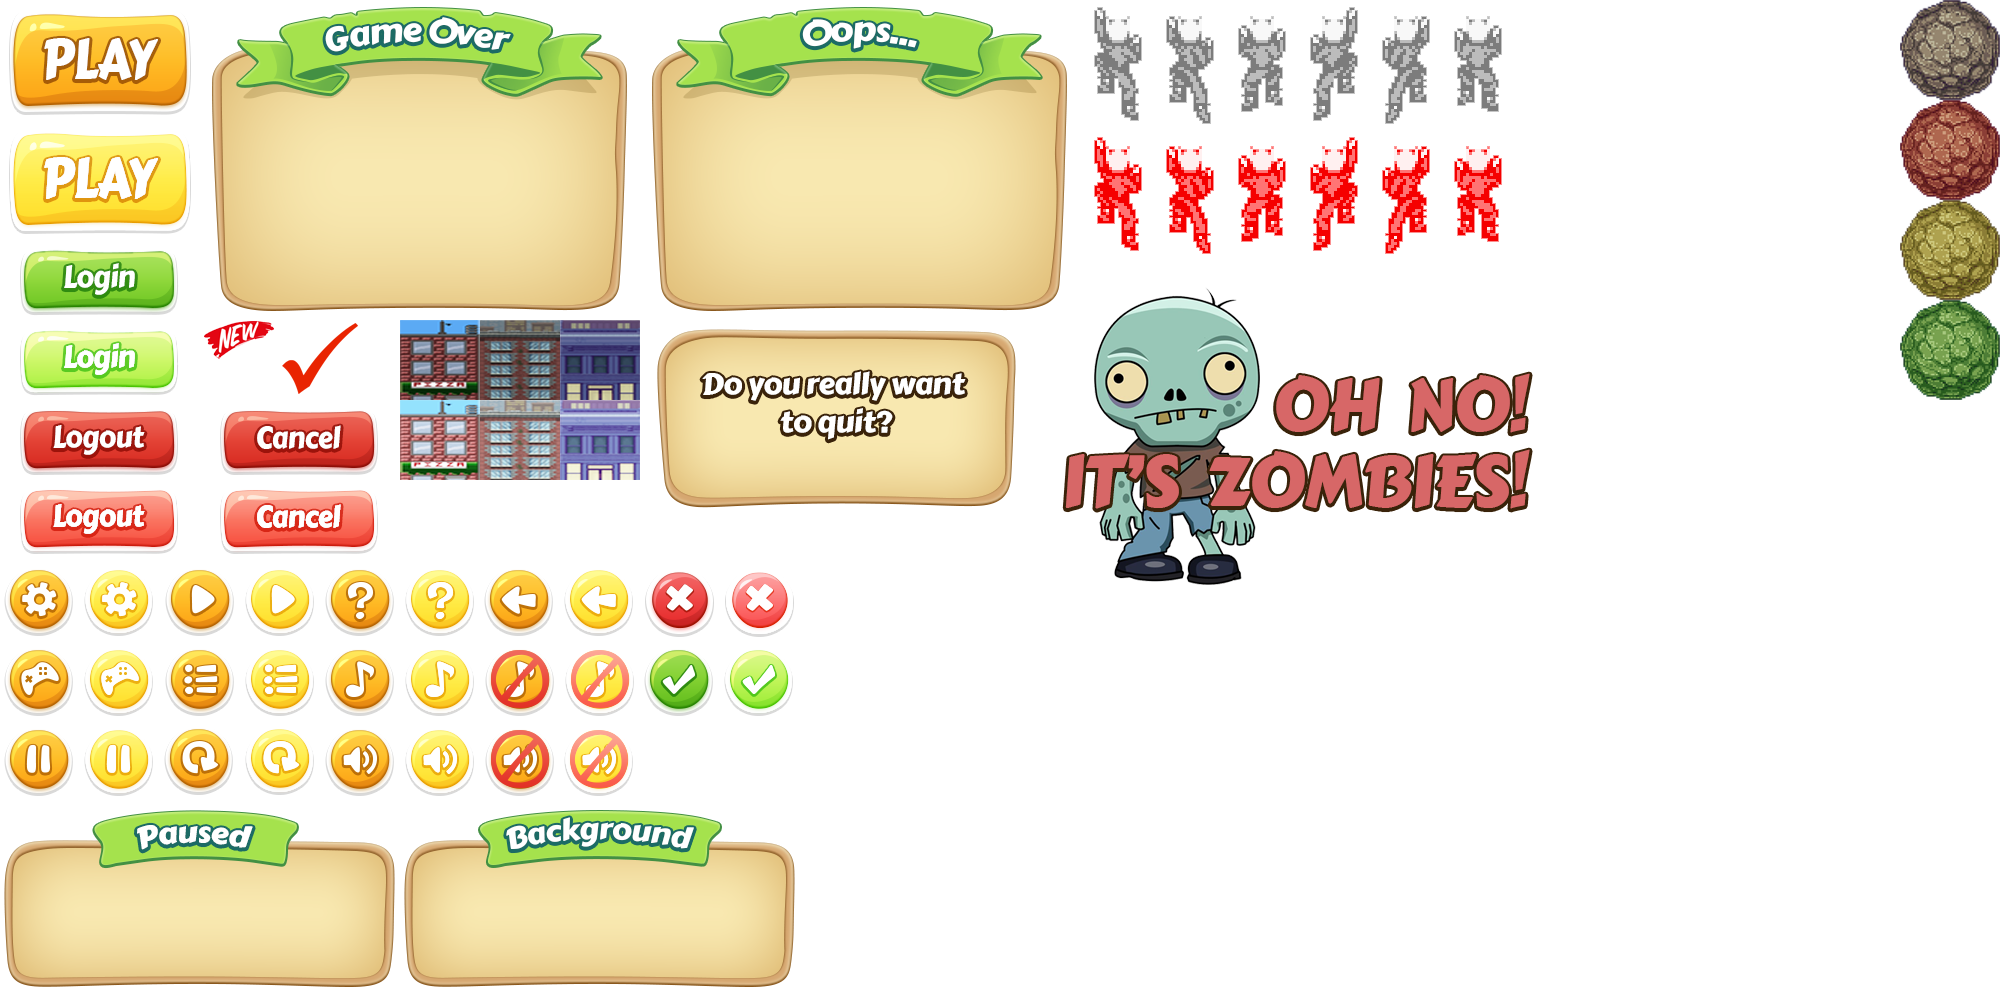
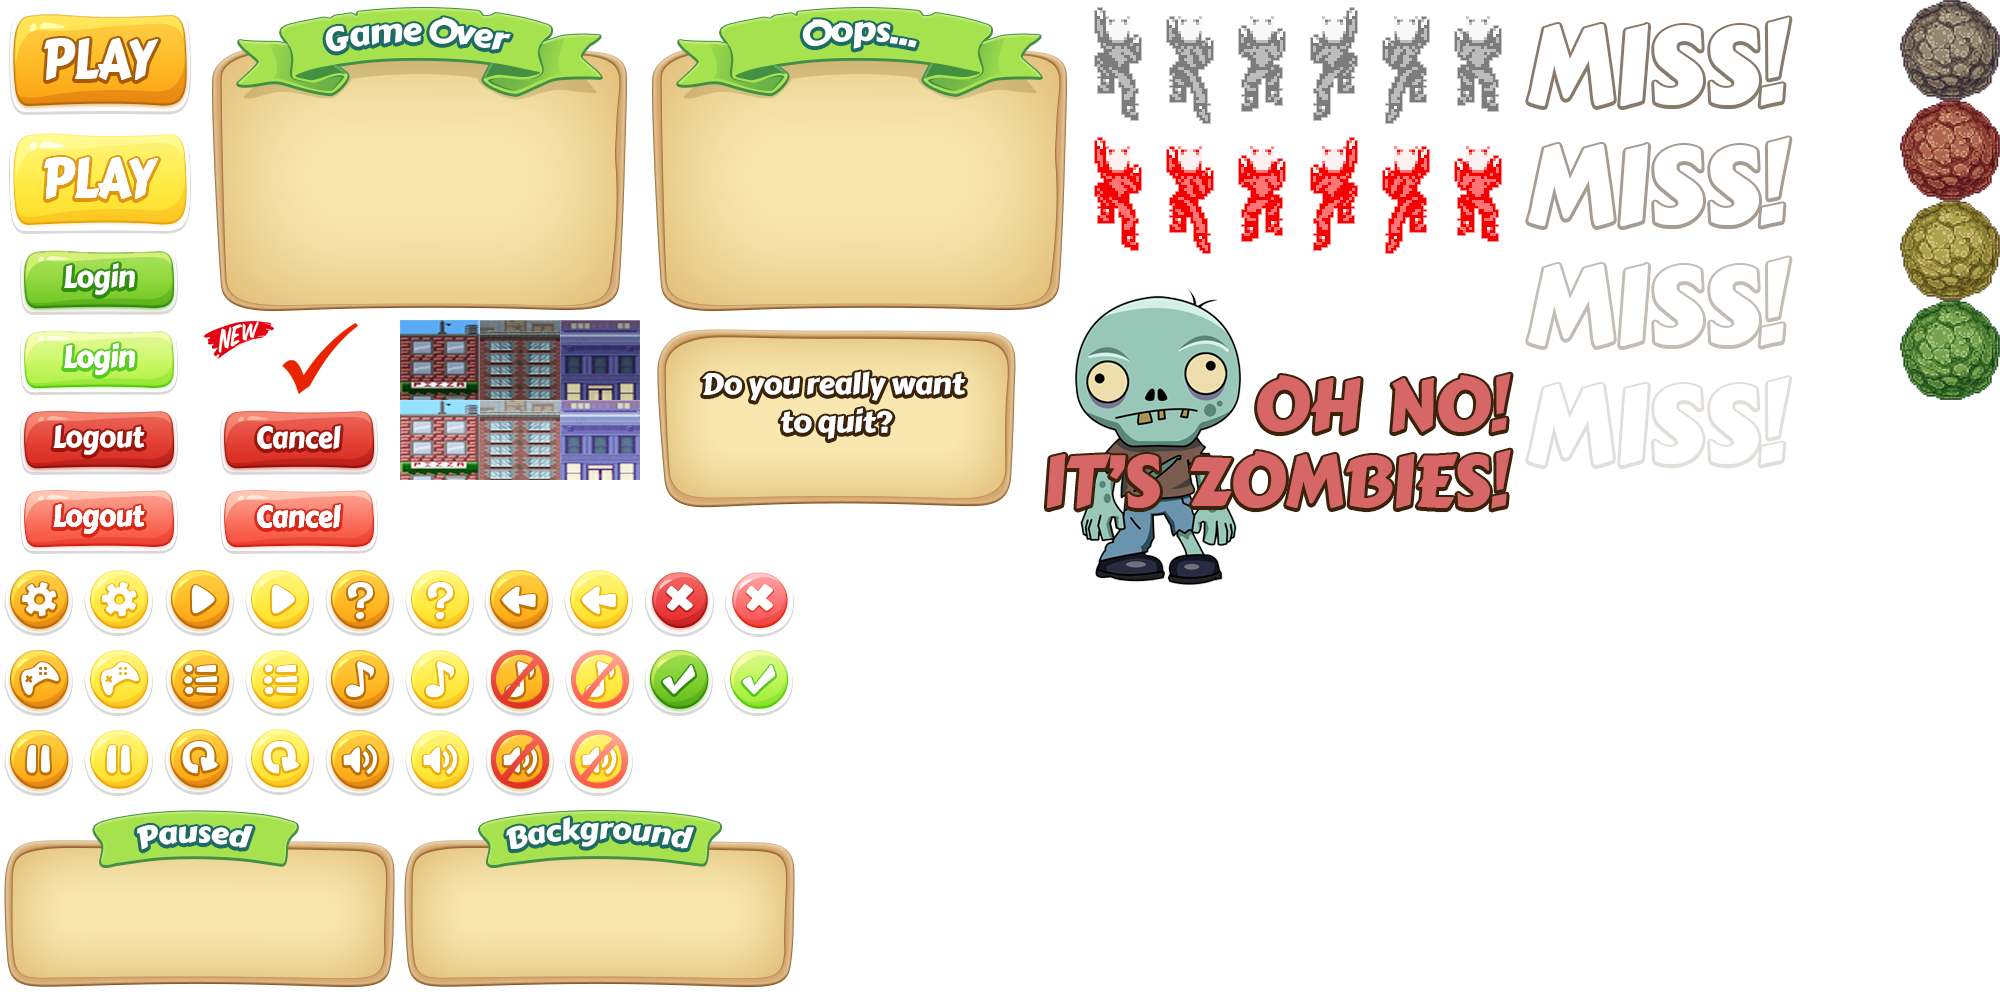
Feedback for gestures

Changed region(s): [[0.496, 0.279, 0.899, 0.589], [0.775, 0.0, 0.899, 0.372]]

diff --git a/core/src/com/oniz/Game/AssetLoader.java b/core/src/com/oniz/Game/AssetLoader.java
@@ -14,6 +14,8 @@ import com.oniz.Mobs.GestureRock;
 
 import java.util.Hashtable;
 
+import javax.xml.soap.Text;
+
 /**
  * Singleton holding all assets.
  */
@@ -32,7 +34,7 @@ public final class AssetLoader {
     public Hashtable<GestureRock.GestureType, TextureRegion> gestureHints;
     public Hashtable<GestureRock.Stage, TextureRegion> gestureStages;
     public TextureRegion[] backgrounds;
-    public Animation zombieClimbingAnimation, enemyZombieClimbingAnimation, explosionAnimation, spinnerAnimation;
+    public Animation zombieClimbingAnimation, enemyZombieClimbingAnimation, explosionAnimation, spinnerAnimation, missAnimation;
     private static Preferences prefs;
     public Skin skin;
 
@@ -223,7 +225,7 @@ public final class AssetLoader {
         sprites.put("gameOverMenu", new TextureRegion(textures.get("menuTexture"), 200, 0, 440, 320));
         sprites.put("oopsMenu", new TextureRegion(textures.get("menuTexture"), 640, 0, 440, 320));
         sprites.put("quitMenu", new TextureRegion(textures.get("menuTexture"), 640, 320, 400, 200));
-        sprites.put("gameTitle", new TextureRegion(textures.get("menuTexture"), 1040, 280, 520, 320));
+        sprites.put("gameTitle", new TextureRegion(textures.get("menuTexture"), 1040, 280, 480, 320));
 
         // gesture stages
         sprites.put("brownRock", new TextureRegion(textures.get("menuTexture"), 1900, 0, 100, 100));
@@ -259,6 +261,17 @@ public final class AssetLoader {
         gestureHints.put(GestureRock.GestureType.M_SHAPE, sprites.get("Mshape"));
         gestureHints.put(GestureRock.GestureType.REV_C_SHAPE, sprites.get("invertedCshape"));
         gestureHints.put(GestureRock.GestureType.TRIANGLE, sprites.get("triangle"));
+
+        // sprites of 'MISS'
+        sprites.put("miss1", new TextureRegion(textures.get("menuTexture"), 1520, 0, 280, 120));
+        sprites.put("miss2", new TextureRegion(textures.get("menuTexture"), 1520, 120, 280, 120));
+        sprites.put("miss3", new TextureRegion(textures.get("menuTexture"), 1520, 240, 280, 120));
+        sprites.put("miss4", new TextureRegion(textures.get("menuTexture"), 1520, 360, 280, 120));
+
+        // 'MISS' animation
+        TextureRegion[] miss = {sprites.get("miss2"), sprites.get("miss1"), sprites.get("miss2"), sprites.get("miss3"), sprites.get("miss4")};
+        missAnimation = new Animation(0.1f, miss);
+        missAnimation.setPlayMode(Animation.PlayMode.NORMAL);
 
         // sprites of zombie climbing
         sprites.put("zombieClimb1", new TextureRegion(textures.get("menuTexture"), 1087, 0, 60, 130));

diff --git a/core/src/com/oniz/Game/GameRenderer.java b/core/src/com/oniz/Game/GameRenderer.java
@@ -41,7 +41,7 @@ public class GameRenderer {
 
     // Game Assets
     private TextureRegion background, backgroundTint;
-    private Animation zombieClimbingAnimation, enemyZombieClimbingAnimation, explosionAnimation;
+    private Animation zombieClimbingAnimation, enemyZombieClimbingAnimation, explosionAnimation, missAnimation;
     private TextureRegion zombie;
 
     private TextureRegion pauseMenu, gameOverMenu, oopsMenu, quitMenu;
@@ -57,6 +57,7 @@ public class GameRenderer {
 
     // temporary
     private volatile float freezeFrameTime = 0;
+    private float missAnimationRunTime = 0;
 
     /*
     GESTURE-ONLY RELATED ASSETS
@@ -132,6 +133,7 @@ public class GameRenderer {
         zombieClimbingAnimation = AssetLoader.getInstance().zombieClimbingAnimation;
         enemyZombieClimbingAnimation = AssetLoader.getInstance().enemyZombieClimbingAnimation;
         explosionAnimation = AssetLoader.getInstance().explosionAnimation;
+        missAnimation = AssetLoader.getInstance().missAnimation;
         zombie = AssetLoader.getInstance().sprites.get("zombieClimb3");
         pauseMenu = AssetLoader.getInstance().sprites.get("pauseMenu");
         gameOverMenu = AssetLoader.getInstance().sprites.get("gameOverMenu");
@@ -168,6 +170,17 @@ public class GameRenderer {
         batcher.draw(quitMenu, 25, 340, 400, 200);
         menuButtons.get("tickButton").draw(batcher);
         menuButtons.get("xButton").draw(batcher);
+    }
+
+    private void drawMissAnimation(float deltaTime) {
+        if (gameWorld.isMissed.get()) {
+            missAnimationRunTime += deltaTime;
+            batcher.draw(missAnimation.getKeyFrame(missAnimationRunTime), 15, 300, 420, 180);
+            if (missAnimation.isAnimationFinished(missAnimationRunTime)) {
+                gameWorld.isMissed.set(false);
+                missAnimationRunTime = 0;
+            }
+        }
     }
 
     /**
@@ -212,10 +225,13 @@ public class GameRenderer {
 
         batcher.enableBlending();
 
+        // miss animation
+        drawMissAnimation(deltaTime);
+
         // Convert integer into String
         String score = Integer.toString(gameWorld.getScore());
         // Draw score
-        scoreFont.draw(batcher, score, (450 / 2) - (18 * score.length()), 750);
+        scoreFont.draw(batcher, score, (450 / 2) - (18 * score.length()), 780);
 
 
         // when game is ready, draw the play button

diff --git a/core/src/com/oniz/Game/GameWorld.java b/core/src/com/oniz/Game/GameWorld.java
@@ -9,6 +9,7 @@ import com.oniz.Network.PlayEventListener;
 import java.util.ArrayList;
 import java.util.Iterator;
 import java.util.Random;
+import java.util.concurrent.atomic.AtomicBoolean;
 
 /**
  * GameWorld class hold all the models and game states.
@@ -36,7 +37,7 @@ public class GameWorld implements PlayEventListener{
     ZGame zgame;
 
     private boolean isMultiPlayerQuitted = false;
-
+    public AtomicBoolean isMissed = new AtomicBoolean(false);
 
     public GameWorld() {
         this.state = GAME_RUNNING;

diff --git a/core/src/com/oniz/Gestures/GestureRecognizerInputProcessor.java b/core/src/com/oniz/Gestures/GestureRecognizerInputProcessor.java
@@ -331,6 +331,7 @@ public class GestureRecognizerInputProcessor extends InputAdapter {
 
             if (match.getScore() < 3) {
                 Gdx.app.log("Gesture Name/Score", "none matched. " + match.getScore());
+                gameWorld.isMissed.set(true);
             } else {
                 Gdx.app.log("Gesture Name/Score", match.getGesture().getName()
                         + Double.toString(match.getScore()));
